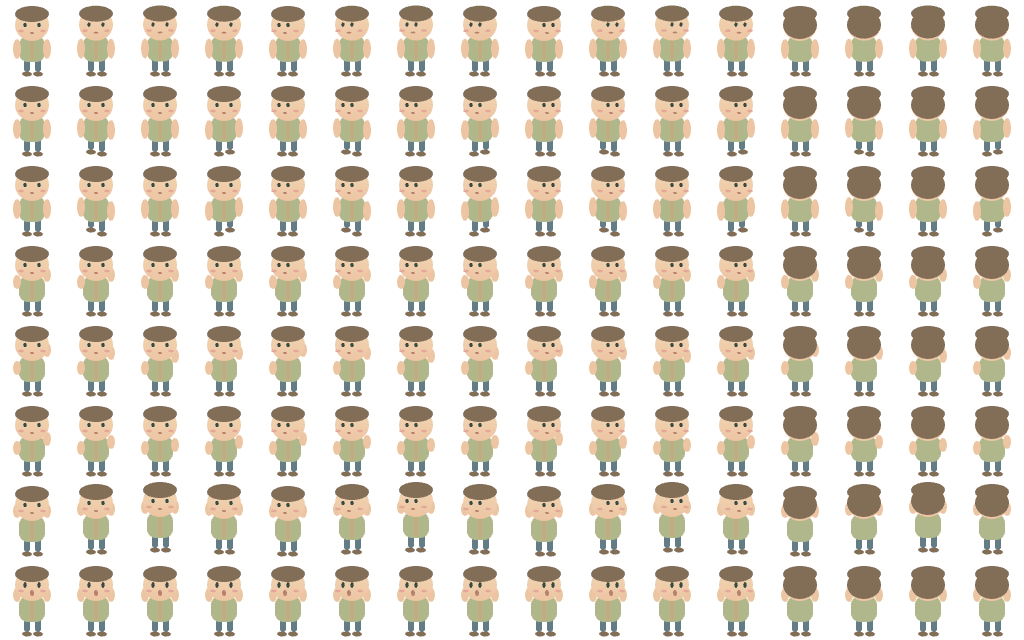
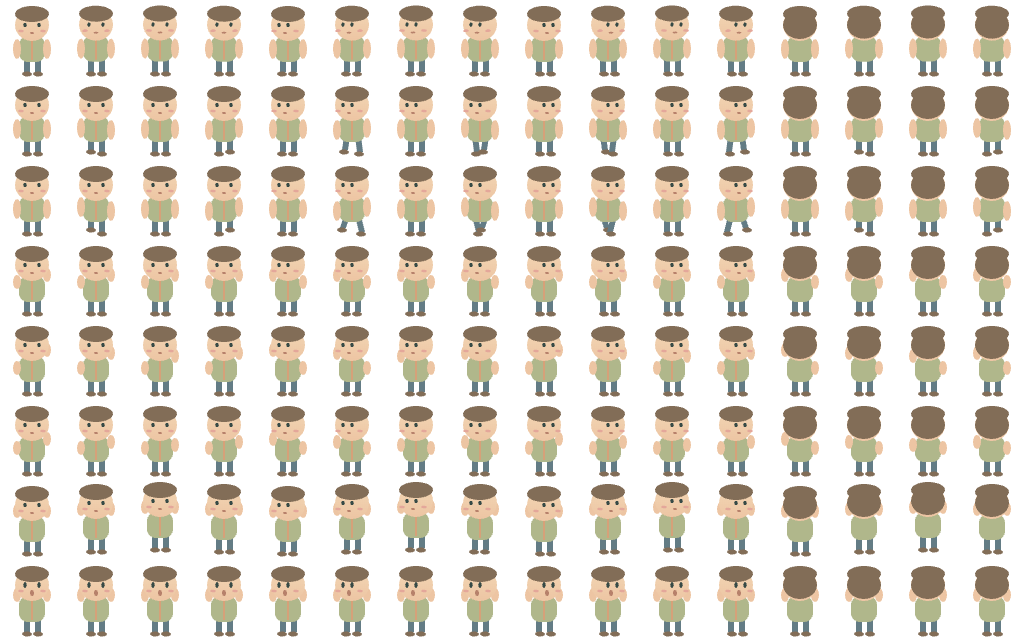
fix(kotoba-shop): align directional sprite grips and side walking stride

diff --git a/kotoba-shop/sprite-prototype.html b/kotoba-shop/sprite-prototype.html
@@ -1,1 +1,1 @@
-<!doctype html><html lang="ja"><head><meta charset="utf-8"><meta name="viewport" content="width=device-width,initial-scale=1"><title>表示試作｜ことばのまちと小さなお店｜こもれびの旅 v3.0</title><link rel="stylesheet" href="./base.css?v=30-guide14"></head><body><h1>ことばのまちと小さなお店 <small>こもれびの旅 v3.0</small></h1><canvas id="game" width="640" height="384" aria-label="町のゲーム画面"></canvas><div id="panel"><div id="stats"></div><div id="dialog">矢印キーで移動、Spaceで話す・調べる。畑は隣から向いて決定。建物の扉へ歩くと自動で入れます。</div><div id="choices"></div></div><div id="editor" role="dialog" aria-modal="true" aria-label="家具の模様替え"><div id="editorPanel"><h2>家具の模様替え</h2><p>家具を選んで、部屋のマスを押してください。置いた家具を選ぶと移動・片付けできます。</p><div id="editTools"></div><div id="editGrid"></div><p id="editStatus" aria-live="polite"></p><button id="editUndo">1つ戻す</button><button id="editDone">決定して保存</button><button id="editCancel">変更を取り消す</button></div></div><div id="controls"><button id="farm">畑・栽培 / 産直</button><button id="furniture">家具屋・模様替え</button><button id="roomRating">部屋の評価・コレクション</button><button data-key="ArrowUp">↑</button><button data-key="ArrowLeft">←</button><button data-key="ArrowDown">↓</button><button data-key="ArrowRight">→</button><button id="action">決定 / Space</button><button id="inventory">在庫・仕入れ</button><button id="report">売上レポート</button><button id="reputation">お店の評判</button><button id="requests">住民の依頼</button><button id="stories">まちの思い出</button><button id="save">セーブ</button><button id="reset">最初から</button></div><p><small>移動は補間アニメーション対応・方向キー長押し可能。仕入れ・陳列はお店の中の「在庫・仕入れ」ボタンから。売上レポートはいつでも確認できます。オフライン動作・外部ライブラリ不要。セーブはこのブラウザ内に保存されます。</small></p><script defer src="./sprite-prototype-storage.js?v=prototype1"></script><script defer src="./update-boot.js?v=30-guide14"></script><script defer src="./town-data.js?v=30-guide14"></script><script defer src="./core.js?v=30-guide14"></script><script defer src="./world.js?v=30-guide14"></script><script defer src="./movement.js?v=30-guide14"></script><script defer src="./activities.js?v=30-guide14"></script><script defer src="./ui.js?v=30-guide14"></script><script defer src="./navigation.js?v=30-guide14"></script><script defer src="./tutorial.js?v=30-guide14"></script><script defer src="./render.js?v=30-guide14"></script><script defer src="./play.js?v=30-guide14"></script><script defer src="./cozy.js?v=30-guide14"></script><script defer src="./vendor/three.min.js?v=160"></script><script defer src="./scene3d.js?v=30-guide14"></script><script defer src="./town-life.js?v=30-guide14"></script><script defer src="./town-quests.js?v=30-guide14"></script><script defer src="./town-scenery.js?v=30-guide14"></script><script defer src="./town-characters.js?v=30-guide14"></script><script defer src="./town-learning-data.js?v=30-guide14"></script><script defer src="./town-learning.js?v=30-guide14"></script><script defer src="./town-interiors.js?v=30-guide14"></script><script defer src="./town-clay-venue.js?v=30-guide14"></script><script defer src="./town-facilities.js?v=30-guide14"></script><script defer src="./town-sprites.js?v=30-guide14"></script><script defer src="./town-sprite-prototype.js?v=prototype5"></script></body></html>
+<!doctype html><html lang="ja"><head><meta charset="utf-8"><meta name="viewport" content="width=device-width,initial-scale=1"><title>表示試作｜ことばのまちと小さなお店｜こもれびの旅 v3.0</title><link rel="stylesheet" href="./base.css?v=30-character-grip15"></head><body><h1>ことばのまちと小さなお店 <small>こもれびの旅 v3.0</small></h1><canvas id="game" width="640" height="384" aria-label="町のゲーム画面"></canvas><div id="panel"><div id="stats"></div><div id="dialog">矢印キーで移動、Spaceで話す・調べる。畑は隣から向いて決定。建物の扉へ歩くと自動で入れます。</div><div id="choices"></div></div><div id="editor" role="dialog" aria-modal="true" aria-label="家具の模様替え"><div id="editorPanel"><h2>家具の模様替え</h2><p>家具を選んで、部屋のマスを押してください。置いた家具を選ぶと移動・片付けできます。</p><div id="editTools"></div><div id="editGrid"></div><p id="editStatus" aria-live="polite"></p><button id="editUndo">1つ戻す</button><button id="editDone">決定して保存</button><button id="editCancel">変更を取り消す</button></div></div><div id="controls"><button id="farm">畑・栽培 / 産直</button><button id="furniture">家具屋・模様替え</button><button id="roomRating">部屋の評価・コレクション</button><button data-key="ArrowUp">↑</button><button data-key="ArrowLeft">←</button><button data-key="ArrowDown">↓</button><button data-key="ArrowRight">→</button><button id="action">決定 / Space</button><button id="inventory">在庫・仕入れ</button><button id="report">売上レポート</button><button id="reputation">お店の評判</button><button id="requests">住民の依頼</button><button id="stories">まちの思い出</button><button id="save">セーブ</button><button id="reset">最初から</button></div><p><small>移動は補間アニメーション対応・方向キー長押し可能。仕入れ・陳列はお店の中の「在庫・仕入れ」ボタンから。売上レポートはいつでも確認できます。オフライン動作・外部ライブラリ不要。セーブはこのブラウザ内に保存されます。</small></p><script defer src="./sprite-prototype-storage.js?v=prototype1"></script><script defer src="./update-boot.js?v=30-character-grip15"></script><script defer src="./town-data.js?v=30-character-grip15"></script><script defer src="./core.js?v=30-character-grip15"></script><script defer src="./world.js?v=30-character-grip15"></script><script defer src="./movement.js?v=30-character-grip15"></script><script defer src="./activities.js?v=30-character-grip15"></script><script defer src="./ui.js?v=30-character-grip15"></script><script defer src="./navigation.js?v=30-character-grip15"></script><script defer src="./tutorial.js?v=30-character-grip15"></script><script defer src="./render.js?v=30-character-grip15"></script><script defer src="./play.js?v=30-character-grip15"></script><script defer src="./cozy.js?v=30-character-grip15"></script><script defer src="./vendor/three.min.js?v=160"></script><script defer src="./scene3d.js?v=30-character-grip15"></script><script defer src="./town-life.js?v=30-character-grip15"></script><script defer src="./town-quests.js?v=30-character-grip15"></script><script defer src="./town-scenery.js?v=30-character-grip15"></script><script defer src="./town-characters.js?v=30-character-grip15"></script><script defer src="./town-learning-data.js?v=30-character-grip15"></script><script defer src="./town-learning.js?v=30-character-grip15"></script><script defer src="./town-interiors.js?v=30-character-grip15"></script><script defer src="./town-clay-venue.js?v=30-character-grip15"></script><script defer src="./town-facilities.js?v=30-character-grip15"></script><script defer src="./town-sprites.js?v=30-character-grip15"></script><script defer src="./town-sprite-prototype.js?v=prototype5"></script></body></html>

diff --git a/kotoba-shop/index.html b/kotoba-shop/index.html
@@ -1,1 +1,1 @@
-<!doctype html><html lang="ja"><head><meta charset="utf-8"><meta name="viewport" content="width=device-width,initial-scale=1"><title>ことばのまちと小さなお店｜こもれびの旅 v3.0</title><link rel="stylesheet" href="./base.css?v=30-guide14"></head><body><h1>ことばのまちと小さなお店 <small>こもれびの旅 v3.0</small></h1><canvas id="game" width="640" height="384" aria-label="町のゲーム画面"></canvas><div id="panel"><div id="stats"></div><div id="dialog">矢印キーで移動、Spaceで話す・調べる。畑は隣から向いて決定。建物の扉へ歩くと自動で入れます。</div><div id="choices"></div></div><div id="editor" role="dialog" aria-modal="true" aria-label="家具の模様替え"><div id="editorPanel"><h2>家具の模様替え</h2><p>家具を選んで、部屋のマスを押してください。置いた家具を選ぶと移動・片付けできます。</p><div id="editTools"></div><div id="editGrid"></div><p id="editStatus" aria-live="polite"></p><button id="editUndo">1つ戻す</button><button id="editDone">決定して保存</button><button id="editCancel">変更を取り消す</button></div></div><div id="controls"><button id="farm">畑・栽培 / 産直</button><button id="furniture">家具屋・模様替え</button><button id="roomRating">部屋の評価・コレクション</button><button data-key="ArrowUp">↑</button><button data-key="ArrowLeft">←</button><button data-key="ArrowDown">↓</button><button data-key="ArrowRight">→</button><button id="action">決定 / Space</button><button id="inventory">在庫・仕入れ</button><button id="report">売上レポート</button><button id="reputation">お店の評判</button><button id="requests">住民の依頼</button><button id="stories">まちの思い出</button><button id="save">セーブ</button><button id="reset">最初から</button></div><p><small>移動は補間アニメーション対応・方向キー長押し可能。仕入れ・陳列はお店の中の「在庫・仕入れ」ボタンから。売上レポートはいつでも確認できます。オフライン動作・外部ライブラリ不要。セーブはこのブラウザ内に保存されます。</small></p><script defer src="./update-boot.js?v=30-guide14"></script><script defer src="./town-data.js?v=30-guide14"></script><script defer src="./core.js?v=30-guide14"></script><script defer src="./world.js?v=30-guide14"></script><script defer src="./movement.js?v=30-guide14"></script><script defer src="./activities.js?v=30-guide14"></script><script defer src="./ui.js?v=30-guide14"></script><script defer src="./navigation.js?v=30-guide14"></script><script defer src="./tutorial.js?v=30-guide14"></script><script defer src="./render.js?v=30-guide14"></script><script defer src="./play.js?v=30-guide14"></script><script defer src="./cozy.js?v=30-guide14"></script><script defer src="./vendor/three.min.js?v=160"></script><script defer src="./scene3d.js?v=30-guide14"></script><script defer src="./town-life.js?v=30-guide14"></script><script defer src="./town-quests.js?v=30-guide14"></script><script defer src="./town-scenery.js?v=30-guide14"></script><script defer src="./town-characters.js?v=30-guide14"></script><script defer src="./town-learning-data.js?v=30-guide14"></script><script defer src="./town-learning.js?v=30-guide14"></script><script defer src="./town-interiors.js?v=30-guide14"></script><script defer src="./town-clay-venue.js?v=30-guide14"></script><script defer src="./town-facilities.js?v=30-guide14"></script><script defer src="./town-sprites.js?v=30-guide14"></script></body></html>
+<!doctype html><html lang="ja"><head><meta charset="utf-8"><meta name="viewport" content="width=device-width,initial-scale=1"><title>ことばのまちと小さなお店｜こもれびの旅 v3.0</title><link rel="stylesheet" href="./base.css?v=30-character-grip15"></head><body><h1>ことばのまちと小さなお店 <small>こもれびの旅 v3.0</small></h1><canvas id="game" width="640" height="384" aria-label="町のゲーム画面"></canvas><div id="panel"><div id="stats"></div><div id="dialog">矢印キーで移動、Spaceで話す・調べる。畑は隣から向いて決定。建物の扉へ歩くと自動で入れます。</div><div id="choices"></div></div><div id="editor" role="dialog" aria-modal="true" aria-label="家具の模様替え"><div id="editorPanel"><h2>家具の模様替え</h2><p>家具を選んで、部屋のマスを押してください。置いた家具を選ぶと移動・片付けできます。</p><div id="editTools"></div><div id="editGrid"></div><p id="editStatus" aria-live="polite"></p><button id="editUndo">1つ戻す</button><button id="editDone">決定して保存</button><button id="editCancel">変更を取り消す</button></div></div><div id="controls"><button id="farm">畑・栽培 / 産直</button><button id="furniture">家具屋・模様替え</button><button id="roomRating">部屋の評価・コレクション</button><button data-key="ArrowUp">↑</button><button data-key="ArrowLeft">←</button><button data-key="ArrowDown">↓</button><button data-key="ArrowRight">→</button><button id="action">決定 / Space</button><button id="inventory">在庫・仕入れ</button><button id="report">売上レポート</button><button id="reputation">お店の評判</button><button id="requests">住民の依頼</button><button id="stories">まちの思い出</button><button id="save">セーブ</button><button id="reset">最初から</button></div><p><small>移動は補間アニメーション対応・方向キー長押し可能。仕入れ・陳列はお店の中の「在庫・仕入れ」ボタンから。売上レポートはいつでも確認できます。オフライン動作・外部ライブラリ不要。セーブはこのブラウザ内に保存されます。</small></p><script defer src="./update-boot.js?v=30-character-grip15"></script><script defer src="./town-data.js?v=30-character-grip15"></script><script defer src="./core.js?v=30-character-grip15"></script><script defer src="./world.js?v=30-character-grip15"></script><script defer src="./movement.js?v=30-character-grip15"></script><script defer src="./activities.js?v=30-character-grip15"></script><script defer src="./ui.js?v=30-character-grip15"></script><script defer src="./navigation.js?v=30-character-grip15"></script><script defer src="./tutorial.js?v=30-character-grip15"></script><script defer src="./render.js?v=30-character-grip15"></script><script defer src="./play.js?v=30-character-grip15"></script><script defer src="./cozy.js?v=30-character-grip15"></script><script defer src="./vendor/three.min.js?v=160"></script><script defer src="./scene3d.js?v=30-character-grip15"></script><script defer src="./town-life.js?v=30-character-grip15"></script><script defer src="./town-quests.js?v=30-character-grip15"></script><script defer src="./town-scenery.js?v=30-character-grip15"></script><script defer src="./town-characters.js?v=30-character-grip15"></script><script defer src="./town-learning-data.js?v=30-character-grip15"></script><script defer src="./town-learning.js?v=30-character-grip15"></script><script defer src="./town-interiors.js?v=30-character-grip15"></script><script defer src="./town-clay-venue.js?v=30-character-grip15"></script><script defer src="./town-facilities.js?v=30-character-grip15"></script><script defer src="./town-sprites.js?v=30-character-grip15"></script></body></html>

diff --git a/kotoba-shop/offline.html b/kotoba-shop/offline.html
@@ -1669,22 +1669,31 @@ town3DAnimate=function(actor,x,z,dir,moving,now,mode='idle'){
  u.head.rotation.x=pose==='surprise'?-.15:0;u.head.rotation.z=state.settings.reducedMotion?0:Math.sin(now/1600)*.018;
  u.pose=pose;
 };
+// Shared screen-space hands keep body poses and attached tools in agreement.
+function townCharacterHands(p,dir,frame,pose){
+ const width=p?.body==='muscle'?38:p?.body==='round'?32:26;
+ const stride=['walk','dash'].includes(pose)?[0,pose==='dash'?4:2,0,pose==='dash'?-4:-2][frame%4]:0;
+ const offset=[0,3,6,3][frame%4];
+ const arms={fish:[42,35],net:[48,30+offset],tool:[48,39+offset],joy:[31,31],surprise:[35,35]}[pose]||[49-stride*.5,49+stride*.5];
+ const mirrored=dir==='left'||dir==='up';
+ return {left:{x:32-width/2-2,y:arms[mirrored?1:0]},right:{x:32+width/2+2,y:arms[mirrored?0:1]},tool:{x:32+(mirrored?-1:1)*(width/2+2),y:arms[1]}};
+}
 function townCharacterStamp(id,dir='down',frame=0,pose='idle',topPadding=0){
  const p=TOWN_CHARACTER_PROFILES[id],back=dir==='up',side=dir==='left'?-1:dir==='right'?1:0;
- return cozyStamp('town-portrait-v1-'+id+'-'+dir+'-'+frame+'-'+pose+'-pad'+topPadding,64,80+topPadding,g=>{
+ return cozyStamp('town-portrait-v2-'+id+'-'+dir+'-'+frame+'-'+pose+'-pad'+topPadding,64,80+topPadding,g=>{
   if(topPadding)g.translate(0,topPadding);
   const skin='#edc5a3',moving=pose==='walk'||pose==='dash',stride=moving?[0,pose==='dash'?4:2,0,pose==='dash'?-4:-2][frame%4]:0;
   const joy=pose==='joy'?[0,-2,-4,-2][frame%4]:0;g.translate(0,joy);
   const muscle=p.body==='muscle',round=p.body==='round',w=muscle?38:round?32:26;
   for(const [i,x] of [24,35].entries()){
-   const lift=Math.max(0,i===0?stride:-stride);cozyRound(g,x,56,6,16-lift,3,p.outfit==='overalls'?p.accent:'#637c85');
-   cozyOval(g,x+3+side,74-lift,5,2.5,'#826d57');
+   const swing=i===0?stride:-stride,lift=Math.max(0,swing),stepX=side*swing;
+   cozyPoly(g,[[x,56],[x+6,56],[x+6+stepX,72-lift],[x+stepX,72-lift]],p.outfit==='overalls'?p.accent:'#637c85');
+   cozyOval(g,x+3+side+stepX,74-lift,5,2.5,'#826d57');
   }
   g.save();if(pose==='idle')g.translate(0,[0,-.3,-.5,-.3][frame%4]);
   cozyRound(g,32-w/2,36,w,26,9,cozyGrad(g,0,36,26,p.shirt,p.shirt));
-  const raised=['fish','net','tool','surprise','joy'].includes(pose),offset=[0,3,6,3][frame%4];
-  const arms={fish:[42,35],net:[48,30+offset],tool:[48,39+offset],joy:[31,31],surprise:[35,35]}[pose]||[49-stride*.5,49+stride*.5];
-  cozyOval(g,32-w/2-2,arms[0],muscle?6:4,raised?7:10,skin);cozyOval(g,32+w/2+2,arms[1],muscle?6:4,raised?7:10,skin);
+  const raised=['fish','net','tool','surprise','joy'].includes(pose),hands=townCharacterHands(p,dir,frame,pose);
+  cozyOval(g,hands.left.x,hands.left.y,muscle?6:4,raised?7:10,skin);cozyOval(g,hands.right.x,hands.right.y,muscle?6:4,raised?7:10,skin);
   if(p.outfit==='dress')cozyPoly(g,[[23,45],[41,45],[47,65],[17,65]],p.shirt);
   if(['overalls','apron'].includes(p.outfit)){
    for(const x of [25,36])cozyRound(g,x,36,3,15,1,p.accent);
@@ -2245,7 +2254,7 @@ else if(state.scene!=='facility')delete state.facilityVisit;
 </script><script>
 // 2D character sprites in the existing 3D outdoor and indoor scenes.
 // Display-only state: saved characters, inventory, quests and gameplay stay unchanged.
-const TownSprites={version:4,enabled:true,height:2.037,width:1.552,topPadding:4,footY:.07,actors:new Set()};
+const TownSprites={version:5,enabled:true,height:2.037,width:1.552,topPadding:4,footY:.07,actors:new Set()};
 // Render existing animal artwork with explicit frames; do not draw into the game
 // canvas or borrow/mutate the live NPC step while warming a texture.
 function townSpriteLegacyStamp(name,dir,frame,moving){
@@ -2261,9 +2270,8 @@ function townSpriteMotionFrame(actor,x,z,moving,pose,now){
  return Math.floor(now/(pose==='idle'?450:170))%4;
 }
 function townSpriteHand(actor,dir,pose,frame){
- const p=actor.userData.profile,bodyWidth=p?.body==='muscle'?38:p?.body==='round'?32:26;
- const offset=[0,3,6,3][frame%4],y={fish:35,net:30+offset,tool:39+offset,surprise:35,joy:31}[pose]??49;
- return {x:32+bodyWidth/2+2,y:y+TownSprites.topPadding};
+ const hand=townCharacterHands(actor.userData.profile,dir,frame,pose).tool;
+ return {x:hand.x,y:hand.y+TownSprites.topPadding};
 }
 function town3DActorToolPose(V,now){
  if(!V.player?.userData.prototype2D||!V.tool.visible)return;
@@ -2276,7 +2284,7 @@ function town3DActorToolPose(V,now){
  V.tool.updateMatrixWorld(true);u.toolHand={...hand,world:V.tool.position.toArray()};
 }
 function townSpriteWateringCan(g,hand){
- g.save();g.strokeStyle='#729b9d';g.lineWidth=2;g.beginPath();g.arc(hand.x+1,hand.y+3,4,Math.PI,Math.PI*2);g.stroke();
+ g.save();if(hand.x<32){g.translate(64,0);g.scale(-1,1);hand={x:64-hand.x,y:hand.y};}g.strokeStyle='#729b9d';g.lineWidth=2;g.beginPath();g.arc(hand.x+1,hand.y+3,4,Math.PI,Math.PI*2);g.stroke();
  cozyRound(g,hand.x-4,hand.y+3,13,10,3,'#83b5cf');cozyPoly(g,[[hand.x+7,hand.y+6],[61,hand.y],[63,hand.y+2],[hand.x+8,hand.y+10]],'#83b5cf');
  cozyOval(g,61,hand.y+1,2,1.5,'#fff2ce');g.restore();
 }

diff --git a/kotoba-shop/town-characters.js b/kotoba-shop/town-characters.js
@@ -109,22 +109,31 @@ town3DAnimate=function(actor,x,z,dir,moving,now,mode='idle'){
  u.head.rotation.x=pose==='surprise'?-.15:0;u.head.rotation.z=state.settings.reducedMotion?0:Math.sin(now/1600)*.018;
  u.pose=pose;
 };
+// Shared screen-space hands keep body poses and attached tools in agreement.
+function townCharacterHands(p,dir,frame,pose){
+ const width=p?.body==='muscle'?38:p?.body==='round'?32:26;
+ const stride=['walk','dash'].includes(pose)?[0,pose==='dash'?4:2,0,pose==='dash'?-4:-2][frame%4]:0;
+ const offset=[0,3,6,3][frame%4];
+ const arms={fish:[42,35],net:[48,30+offset],tool:[48,39+offset],joy:[31,31],surprise:[35,35]}[pose]||[49-stride*.5,49+stride*.5];
+ const mirrored=dir==='left'||dir==='up';
+ return {left:{x:32-width/2-2,y:arms[mirrored?1:0]},right:{x:32+width/2+2,y:arms[mirrored?0:1]},tool:{x:32+(mirrored?-1:1)*(width/2+2),y:arms[1]}};
+}
 function townCharacterStamp(id,dir='down',frame=0,pose='idle',topPadding=0){
  const p=TOWN_CHARACTER_PROFILES[id],back=dir==='up',side=dir==='left'?-1:dir==='right'?1:0;
- return cozyStamp('town-portrait-v1-'+id+'-'+dir+'-'+frame+'-'+pose+'-pad'+topPadding,64,80+topPadding,g=>{
+ return cozyStamp('town-portrait-v2-'+id+'-'+dir+'-'+frame+'-'+pose+'-pad'+topPadding,64,80+topPadding,g=>{
   if(topPadding)g.translate(0,topPadding);
   const skin='#edc5a3',moving=pose==='walk'||pose==='dash',stride=moving?[0,pose==='dash'?4:2,0,pose==='dash'?-4:-2][frame%4]:0;
   const joy=pose==='joy'?[0,-2,-4,-2][frame%4]:0;g.translate(0,joy);
   const muscle=p.body==='muscle',round=p.body==='round',w=muscle?38:round?32:26;
   for(const [i,x] of [24,35].entries()){
-   const lift=Math.max(0,i===0?stride:-stride);cozyRound(g,x,56,6,16-lift,3,p.outfit==='overalls'?p.accent:'#637c85');
-   cozyOval(g,x+3+side,74-lift,5,2.5,'#826d57');
+   const swing=i===0?stride:-stride,lift=Math.max(0,swing),stepX=side*swing;
+   cozyPoly(g,[[x,56],[x+6,56],[x+6+stepX,72-lift],[x+stepX,72-lift]],p.outfit==='overalls'?p.accent:'#637c85');
+   cozyOval(g,x+3+side+stepX,74-lift,5,2.5,'#826d57');
   }
   g.save();if(pose==='idle')g.translate(0,[0,-.3,-.5,-.3][frame%4]);
   cozyRound(g,32-w/2,36,w,26,9,cozyGrad(g,0,36,26,p.shirt,p.shirt));
-  const raised=['fish','net','tool','surprise','joy'].includes(pose),offset=[0,3,6,3][frame%4];
-  const arms={fish:[42,35],net:[48,30+offset],tool:[48,39+offset],joy:[31,31],surprise:[35,35]}[pose]||[49-stride*.5,49+stride*.5];
-  cozyOval(g,32-w/2-2,arms[0],muscle?6:4,raised?7:10,skin);cozyOval(g,32+w/2+2,arms[1],muscle?6:4,raised?7:10,skin);
+  const raised=['fish','net','tool','surprise','joy'].includes(pose),hands=townCharacterHands(p,dir,frame,pose);
+  cozyOval(g,hands.left.x,hands.left.y,muscle?6:4,raised?7:10,skin);cozyOval(g,hands.right.x,hands.right.y,muscle?6:4,raised?7:10,skin);
   if(p.outfit==='dress')cozyPoly(g,[[23,45],[41,45],[47,65],[17,65]],p.shirt);
   if(['overalls','apron'].includes(p.outfit)){
    for(const x of [25,36])cozyRound(g,x,36,3,15,1,p.accent);

diff --git a/kotoba-shop/town-sprites.js b/kotoba-shop/town-sprites.js
@@ -1,6 +1,6 @@
 // 2D character sprites in the existing 3D outdoor and indoor scenes.
 // Display-only state: saved characters, inventory, quests and gameplay stay unchanged.
-const TownSprites={version:4,enabled:true,height:2.037,width:1.552,topPadding:4,footY:.07,actors:new Set()};
+const TownSprites={version:5,enabled:true,height:2.037,width:1.552,topPadding:4,footY:.07,actors:new Set()};
 // Render existing animal artwork with explicit frames; do not draw into the game
 // canvas or borrow/mutate the live NPC step while warming a texture.
 function townSpriteLegacyStamp(name,dir,frame,moving){
@@ -16,9 +16,8 @@ function townSpriteMotionFrame(actor,x,z,moving,pose,now){
  return Math.floor(now/(pose==='idle'?450:170))%4;
 }
 function townSpriteHand(actor,dir,pose,frame){
- const p=actor.userData.profile,bodyWidth=p?.body==='muscle'?38:p?.body==='round'?32:26;
- const offset=[0,3,6,3][frame%4],y={fish:35,net:30+offset,tool:39+offset,surprise:35,joy:31}[pose]??49;
- return {x:32+bodyWidth/2+2,y:y+TownSprites.topPadding};
+ const hand=townCharacterHands(actor.userData.profile,dir,frame,pose).tool;
+ return {x:hand.x,y:hand.y+TownSprites.topPadding};
 }
 function town3DActorToolPose(V,now){
  if(!V.player?.userData.prototype2D||!V.tool.visible)return;
@@ -31,7 +30,7 @@ function town3DActorToolPose(V,now){
  V.tool.updateMatrixWorld(true);u.toolHand={...hand,world:V.tool.position.toArray()};
 }
 function townSpriteWateringCan(g,hand){
- g.save();g.strokeStyle='#729b9d';g.lineWidth=2;g.beginPath();g.arc(hand.x+1,hand.y+3,4,Math.PI,Math.PI*2);g.stroke();
+ g.save();if(hand.x<32){g.translate(64,0);g.scale(-1,1);hand={x:64-hand.x,y:hand.y};}g.strokeStyle='#729b9d';g.lineWidth=2;g.beginPath();g.arc(hand.x+1,hand.y+3,4,Math.PI,Math.PI*2);g.stroke();
  cozyRound(g,hand.x-4,hand.y+3,13,10,3,'#83b5cf');cozyPoly(g,[[hand.x+7,hand.y+6],[61,hand.y],[63,hand.y+2],[hand.x+8,hand.y+10]],'#83b5cf');
  cozyOval(g,61,hand.y+1,2,1.5,'#fff2ce');g.restore();
 }

diff --git a/kotoba-shop/WORK_PROGRESS.md b/kotoba-shop/WORK_PROGRESS.md
@@ -1,6 +1,6 @@
 # WORK_PROGRESS — ことばのまちと小さなお店
 
-最終更新: 2026-10-18（日本時間）
+最終更新: 2026-10-19（日本時間）
 対象: beep16band/kokyo の kotoba-shop/ のみ
 作業ブランチ: dev/kotoba-shop-resume-20261018
 再開の起点: main の 6caea19afe08a73d732e5d8a25386cb8fd79647c
@@ -616,4 +616,23 @@ node kotoba-shop/tools/life_rooms_quality.cjs
 未完了: 第4章以降の実操作通し・全体バランス、時間経過による収穫、全難易度・実機・互換最終確認・本番公開。
 次の作業: qa/fixtures/chapter-3-save-20261018.jsonを引き継ぎ、第4章の模型制作・自宅展示・ギャラクシー先生との交流を確認。
 既知の不具合: この検証範囲で未解決のゲーム不具合なし。全機能・実機を網羅したものではない。
+本番未反映。承認待ちなし。
+
+## F6-b キャラチップをベースにした動作改善（2026-10-19）
+
+再開起点: 08a629f27e27e8db1b30cf8492abe79ed242298e。進捗と最新コミットを確認し、環境整理で消えた作業コピーをGitHubから復元。第3章までのコード・セーブを継承。
+利用者の追加方針: チャットで作成したキャラチップを改善のベースとして参考にする。assets/charactersの13人分・4方向・8動作を確認し、既存の個性・色・配置規格を維持。
+完了事項:
+- town-characters.jsに描画用の左右の手・道具の持ち手を共通定義。左向き・後ろ向きで持ち手の側と腕の高さを切替。
+- town-sprites.jsの釣り竿・網の接続点を同じ手座標に統一。じょうろは左側へ持ち替えた際に注ぎ口も反転。
+- 横歩き・ダッシュで足が前後に開く描画へ調整。片足が上がる間も支持足の靴底位置を保持。足滑りの完全解消や全方向の立体的な横顔化を意味しない。
+- 13枚の透過PNGを描画元から再生成し、manifestのartRevisionを2へ更新。64×80・16列×8行の素材規格を維持。READMEの再生成コマンドを現行2Dキャラ対応の検証へ変更。
+- 通常版・比較版のキャッシュ識別子を30-character-grip15へ更新。オフライン版を再生成。
+検証:
+- sprite_motion_quality.cjs: 10/10合格。1,664コマの欠落・上端切れなし、832件の方向別の腕・握り・じょうろの向き、横歩きの支持足、Shiftダッシュ、旧動物、4方向の網接続、釣り16視覚状態、水やりを確認。実行時例外0。
+- sprite_integration_quality.cjs: 7/7合格。代表旧セーブ3件（やさしい町・ふつう自宅・むずかしい施設）、通信なしオフライン12地区・8室内、報酬の保存・重複防止。実行時例外0。
+- JavaScript構文確認・git diff --check合格。Chromium 133 / SwiftShader。画像の方向一覧を目視確認。
+結果: qa/character-grip-motion-20261019.json、qa/character-grip-integration-20261019.json。
+既知の制約・未完了: 軽量2Dのフィールド上の竿・網は既存の接続位置のまま。今回の道具の手への接続改善は3D背景＋2Dキャラが対象。全遮蔽物・全位置・実機確認、第4章以降の実操作通し、最終公開は未完了。
+次の作業: 軽量2Dの竿・網にも共通の手座標を適用して向き別に確認し、その後は第3章クリアセーブから第4章実操作へ戻る。
 本番未反映。承認待ちなし。

diff --git a/kotoba-shop/assets/characters/README.md b/kotoba-shop/assets/characters/README.md
@@ -18,8 +18,13 @@ designs based on their existing game roles, not previously approved character sh
 To reproduce the atlases, run:
 
 ```sh
-EXPORT_TOWN_CHARACTERS=1 node tools/characters_quality.cjs
+EXPORT_TOWN_CHARACTERS=1 node tools/sprite_motion_quality.cjs
 ```
 
 Playwright and Chromium are required for the export/check command, not for playing.
 Set `PLAYWRIGHT_CHROMIUM_EXECUTABLE_PATH` when Chromium is installed separately.
+
+2026-10-19 revision: direction-aware tool hands and side-view foot stride.
+Character identity, palette, sheet dimensions and frame layout are preserved.
+The 3D sprite renderer shares hand coordinates with the artwork; the lightweight
+2D field tool overlay still uses its original grip and is a separate follow-up.
